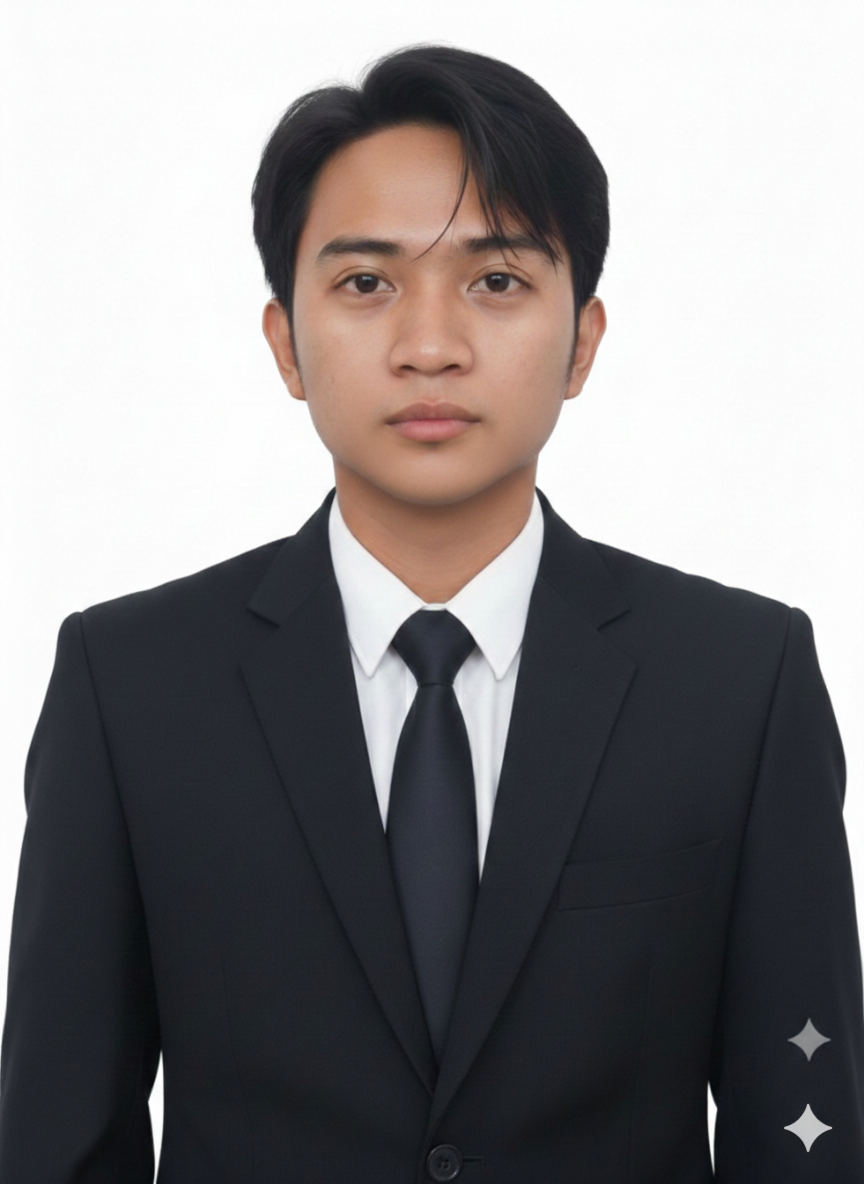
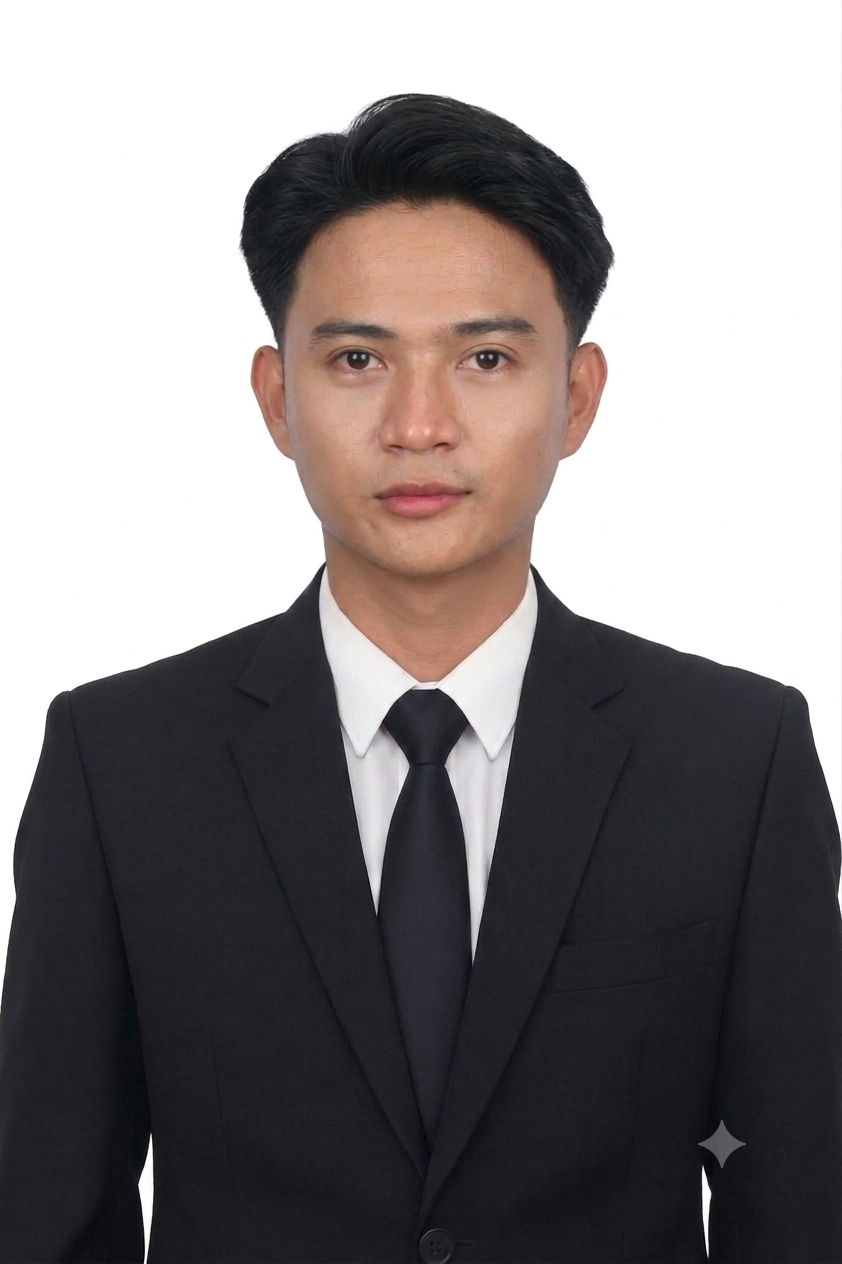
fix id pic

diff --git a/index.html b/index.html
@@ -2,7 +2,7 @@
 <html lang="en">
   <head>
     <meta charset="UTF-8" />
-    <link rel="icon" type="image/png" href="/images/ID_Pic.png" />
+    <link rel="icon" type="image/png" href="/images/ID_pic.png?v=3" />
     <meta name="viewport" content="width=device-width, initial-scale=1.0" />
     <meta name="description" content="Personal CV & Portfolio of a Junior Full-Stack Developer specializing in web and mobile applications for local government units." />
     <meta name="keywords" content="Junior Full Stack Developer, React, Laravel, PHP, Portfolio, LGU, Web Developer Philippines" />

diff --git a/src/components/About/About.jsx b/src/components/About/About.jsx
@@ -105,7 +105,7 @@ export default function About() {
               <div className="about__bio-header">
                 <div className="about__avatar-wrap">
                   <img
-                    src="/images/ID_Pic.png"
+                    src="/images/ID_pic.png?v=3"
                     alt="John Rex M. Jalotjot"
                     className="about__avatar"
                   />

diff --git a/src/components/Hero/Hero.jsx b/src/components/Hero/Hero.jsx
@@ -93,7 +93,7 @@ export default function Hero() {
           <div className="hero__photo-ring" />
           <div className="hero__photo-container">
             <img
-              src="/images/ID_Pic.png"
+              src="/images/ID_pic.png?v=3"
               alt="Developer profile photo"
               className="hero__photo"
               loading="eager"
